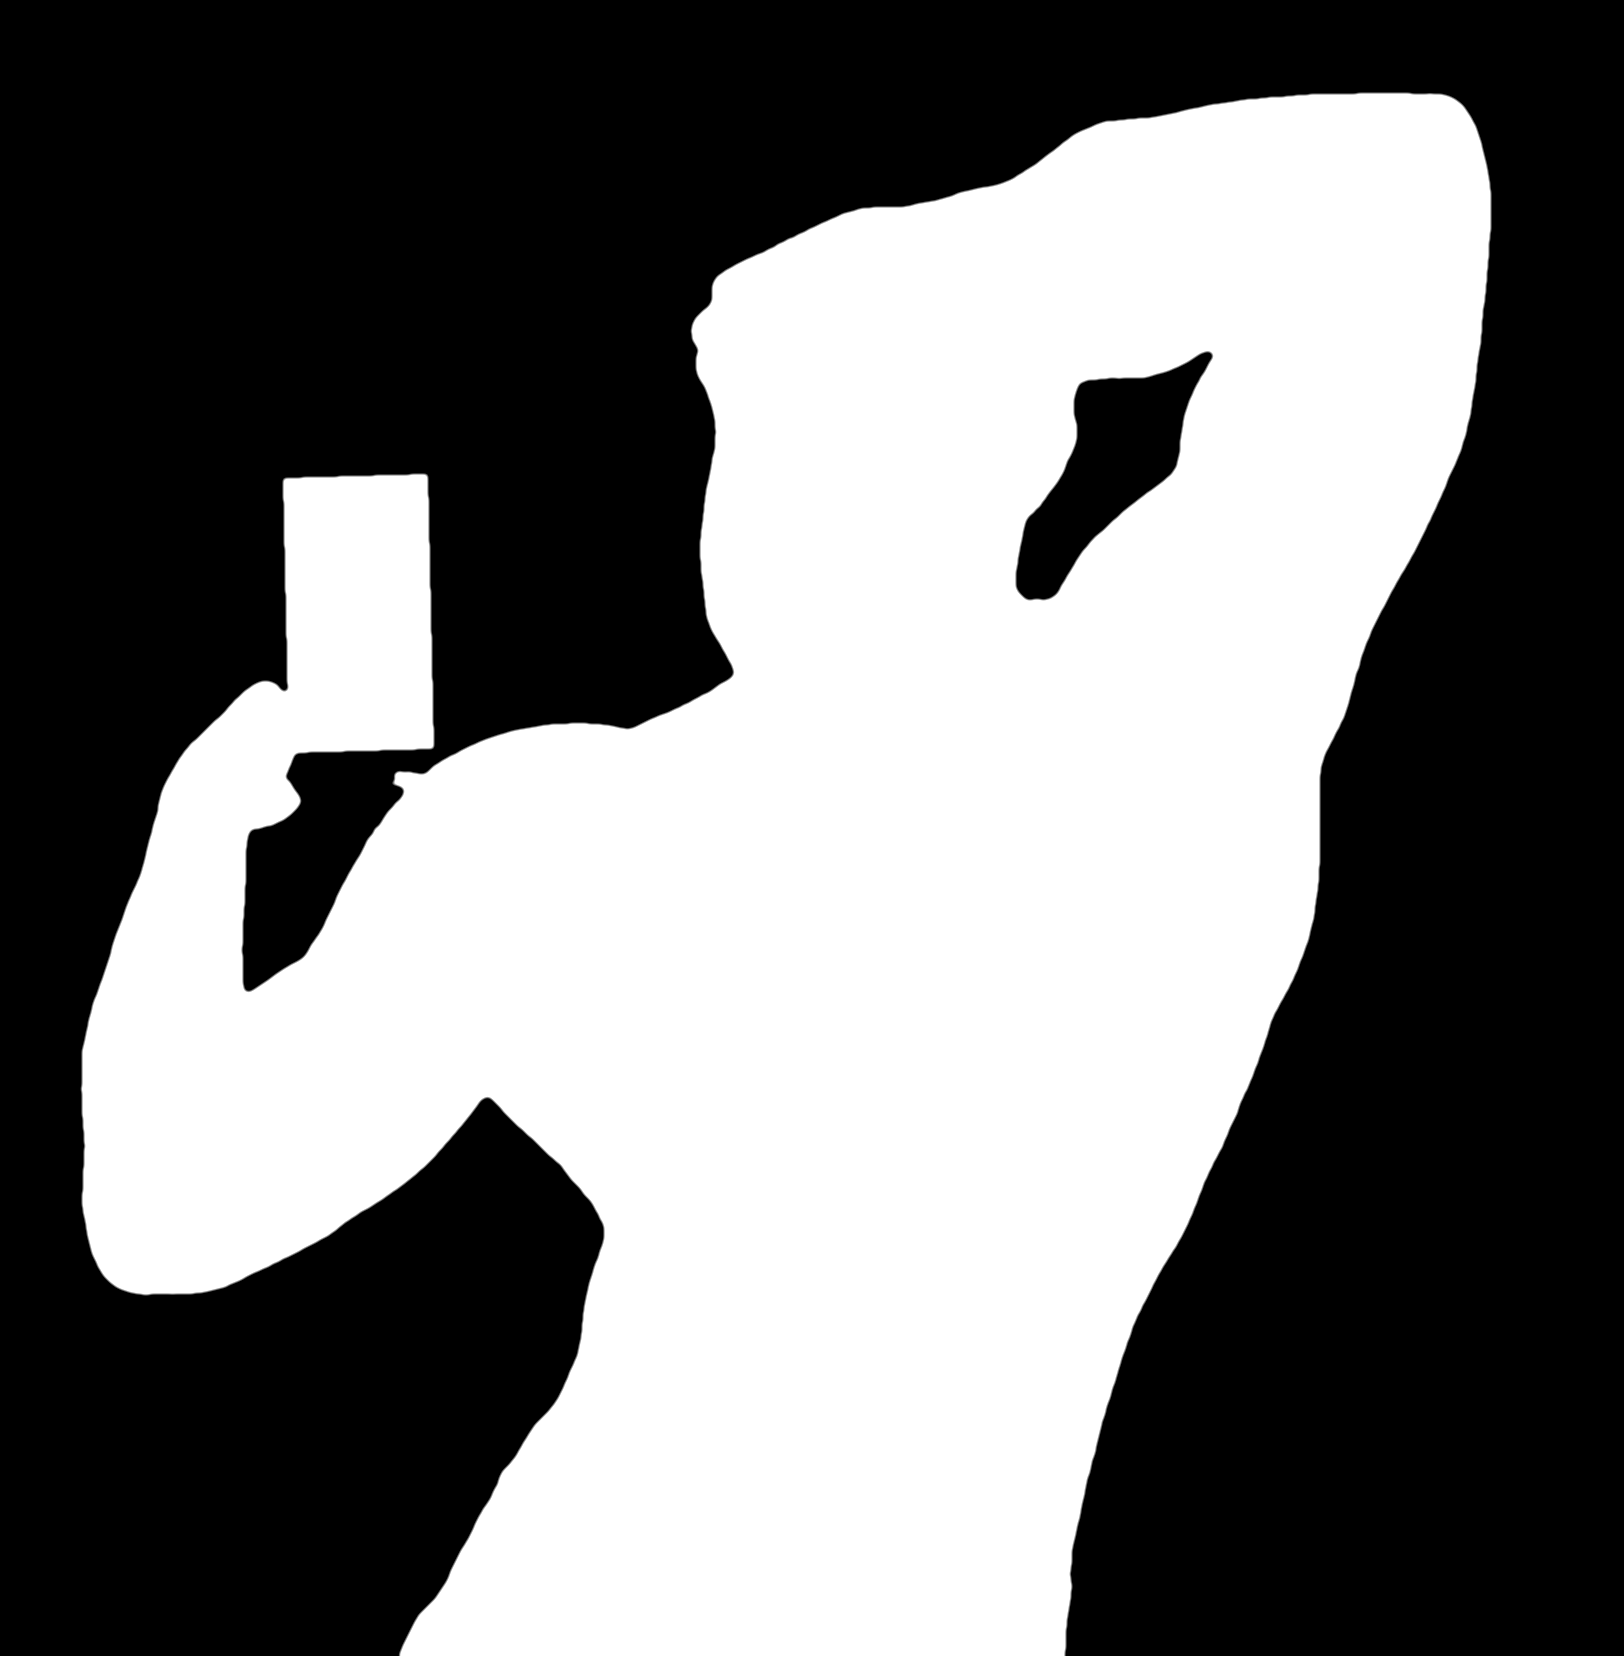
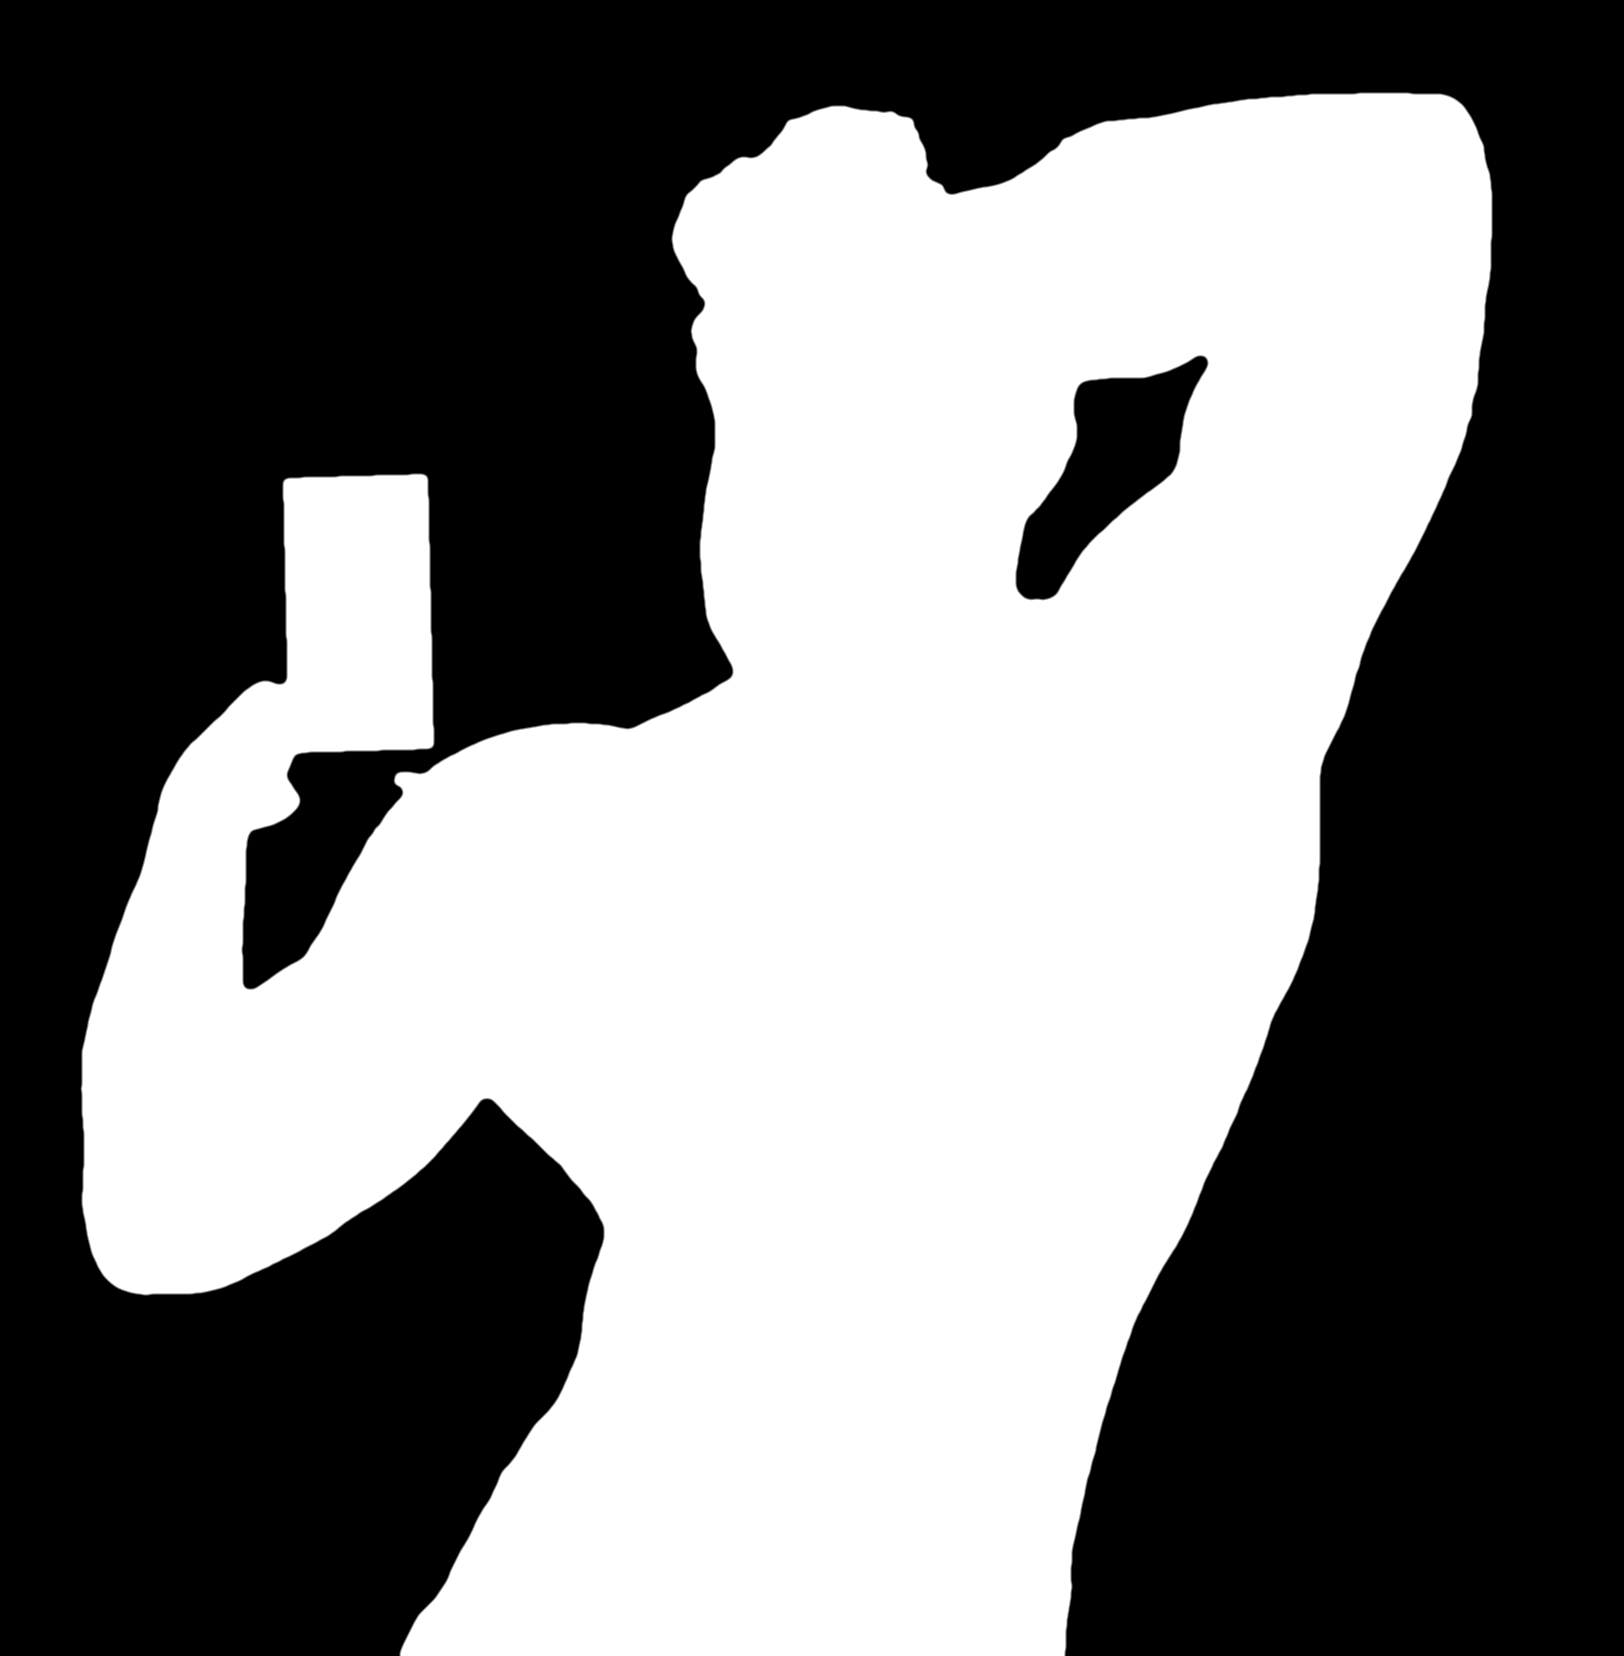
reel-03 v3 stills: back holds 0.68 s before the light, head kept in the silhouette
Claude-Session: https://claude.ai/code/session_019iRFfwUukWq11eyJtAJ1oK

Changed region(s): [[0.4002, 0.0616, 0.585, 0.1848]]

diff --git a/projects/reel-03/work/matte/make_c07_alpha.py b/projects/reel-03/work/matte/make_c07_alpha.py
@@ -10,7 +10,8 @@ i = np.asarray(remove(rgb, session=new_session("isnet-general-use"), only_mask=T
 seg = vision.ImageSegmenter.create_from_options(vision.ImageSegmenterOptions(
     base_options=mpt.BaseOptions(model_asset_path=os.path.expanduser("~/.cache/vibe/selfie_multiclass.tflite")),
     output_confidence_masks=True))
-p = 1 - seg.segment(mp.Image(image_format=mp.ImageFormat.SRGB, data=np.ascontiguousarray(rgb))).confidence_masks[0].numpy_view()
+cms = seg.segment(mp.Image(image_format=mp.ImageFormat.SRGB, data=np.ascontiguousarray(rgb))).confidence_masks
+p, hair = 1 - cms[0].numpy_view().squeeze(), cms[1].numpy_view().squeeze()
 pm = cv2.dilate((p > 0.3).astype(np.uint8), cv2.getStructuringElement(cv2.MORPH_ELLIPSE, (31, 31))).astype(np.float32)
 a = np.maximum(u, i * pm)                                                   # u2net body, isnet adds the hand
 cv2.fillPoly(a, [np.array([[283, 478], [427, 474], [433, 748], [289, 752]], np.int32)], 1.0)   # the phone
@@ -18,6 +19,14 @@ for y in range(1450, a.shape[0]):                                           # wa
     xs = np.flatnonzero(a[y] > 0.5)
     if xs.size: a[y, xs[0]:xs[-1] + 1] = 1
 b = cv2.morphologyEx((a > 0.5).astype(np.uint8), cv2.MORPH_CLOSE, cv2.getStructuringElement(cv2.MORPH_ELLIPSE, (7, 7)))
+n, lab, st, _ = cv2.connectedComponentsWithStats(b); b = (lab == 1 + int(np.argmax(st[1:, 4]))).astype(np.float32)
+al = np.clip((cv2.GaussianBlur(b, (0, 0), 2.2) - 0.5) * 2.5 + 0.5, 0, 1)
+# v3: the head above the hand (hair, forearm) from MediaPipe person + hair classes, top of the photo only
+top = np.zeros_like(al); top[:420] = 1; top = cv2.GaussianBlur(top, (0, 0), 20)
+add = np.maximum((p > 0.5).astype(np.float32), (hair > 0.3).astype(np.float32))
+add = np.maximum(add, (i > 0.5).astype(np.float32) * (p > 0.2))
+b = cv2.morphologyEx((np.maximum(al, add * top) > 0.5).astype(np.uint8), cv2.MORPH_CLOSE, cv2.getStructuringElement(cv2.MORPH_ELLIPSE, (15, 15)))
+b = cv2.morphologyEx(b, cv2.MORPH_OPEN, cv2.getStructuringElement(cv2.MORPH_ELLIPSE, (9, 9)))
 n, lab, st, _ = cv2.connectedComponentsWithStats(b); b = (lab == 1 + int(np.argmax(st[1:, 4]))).astype(np.float32)
 al = np.clip((cv2.GaussianBlur(b, (0, 0), 2.2) - 0.5) * 2.5 + 0.5, 0, 1)
 cv2.imwrite("work/matte/c07_alpha.png", (al * 255).astype(np.uint8))

diff --git a/projects/reel-03/work/build/edit.py b/projects/reel-03/work/build/edit.py
@@ -117,7 +117,7 @@ def back_layers():
     IMG = np.zeros((H, W, 3), np.float32); AL = np.zeros((H, W), np.float32)
     IMG[H - ph:] = img[:, 50:50 + W]; AL[H - ph:] = al[:, 50:50 + W]
     fade = np.clip((np.arange(H) - (H - ph)) / 260.0, 0, 1)[:, None, None]
-    norm = grade(IMG, gain=(0.80, 0.85, 0.92), gamma=1.25) * 0.85 * fade
+    norm = grade(IMG, gain=(0.82, 0.88, 0.95), gamma=1.12, contrast=1.08) * 0.95 * fade
     cx, cy = 600, 1010
     d = np.hypot(XX - cx, (YY - cy) / 1.25)
     core = np.exp(-(d / 520) ** 2)
@@ -131,8 +131,8 @@ def back_layers():
     return norm, light, AL[..., None], edge, inner
 
 
-SNAP = 0.16          # local time the light switches on
-LIGHT_SEQ = [1, 1, 1, 0.25, 1, 1, 1, 1, 0.5, 1, 1, 1, 1, 1, 0.3, 1, 1, 1, 1, 1, 1, 1, 1, 1, 1, 1, 1]
+SNAP = 0.68          # local time the light switches on (4.60, on "you want"): the back holds for 0.68 s
+LIGHT_SEQ = [1, 1, 1, 1, 1, 0.4, 1, 1, 1, 1, 1]
 
 
 def sil_frame(tl, i, cool=0.0, white=False):
@@ -156,12 +156,12 @@ def b_snap(tl, i):
     if tl < SNAP:
         f = norm.copy()
     else:
-        f = sil_frame(tl, i, cool=ease((tl - 0.85) / 0.2))
+        f = sil_frame(tl, i, cool=ease((tl - 0.90) / 0.15))
         if tl - SNAP < 1 / FPS:
             f = 0.5 * f + 0.5 * np.clip(norm * 3, 0, 1)
-    f = push(f, 1 + 0.035 * tl / 1.08, W / 2, H * 0.55)
+    f = push(f, 1 + 0.06 * tl / 1.08, W / 2, H * 0.62)
     f = finish(f, i)
-    if tl < 0.40:                                    # "breathe." carries over, breaking into teal
+    if tl < 0.24:                                    # "breathe." carries over, breaking into teal, clears off the back
         m = text_mask("breathe.", size_for_width("breathe.", 750), cy=H * 0.47)[..., None]
         rng = np.random.default_rng(i)
         band = np.zeros((H, 1, 1), np.float32)
